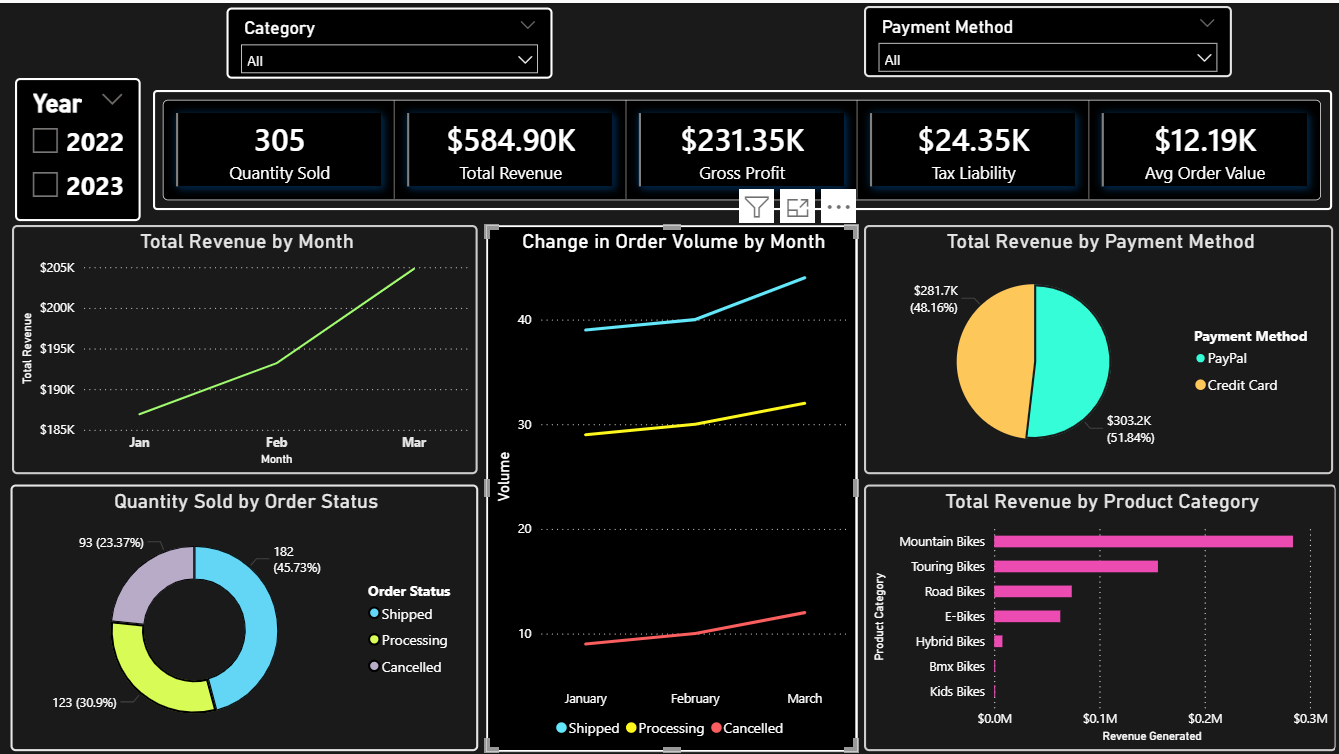
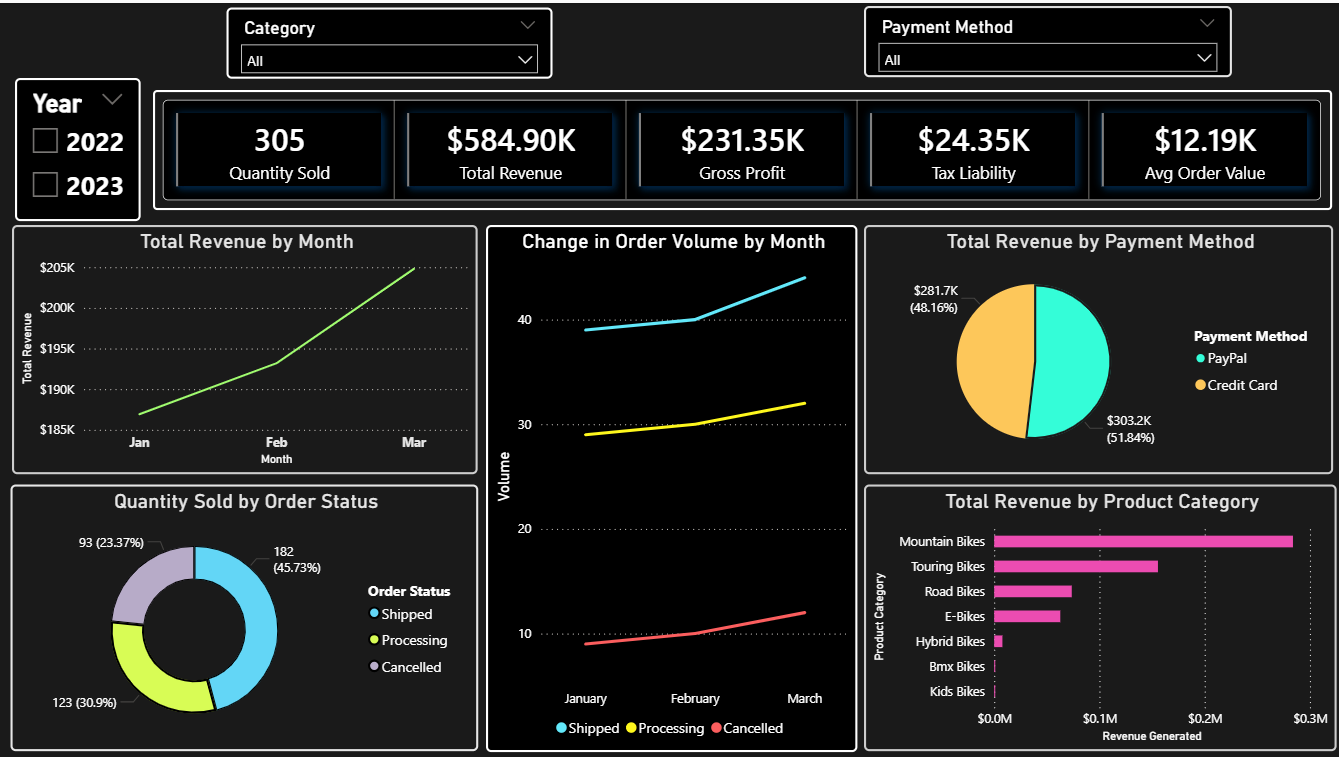
Updated README

diff --git a/README.md b/README.md
@@ -125,30 +125,58 @@ Provide an interactive dashboard allowing executives to filter results by:
 Page 1: Executive Overview
 </h2>
 
+Displays:
+
+    The number of bikes sold,   Total revenue,    Gross profit,    Tax liability,    
+    Total revenue by month, Quantity sold by order status,      Change in order volume, 
+    Total revenue by payment method,  Total revenue by product category.
+
 <p align = "center">
-<img src = "08_Images/Dashboard/Executive_Overview.png" width = "1000" height = "350">
+<img src = "08_Images/Dashboard/Executive_Overview.png" width = "1000" height = "400">
 </p>
 
-<h1 align = "center"> 
+<h2 align = "center"> 
 Page 2: Product Performance
-</h1>
+</h2>
+
+Displays:
+
+    Revenue generated by product category, 
+    Revenue generated by subcategory,
+    Order quantity by category,
+    Profitability by category
 
 <p align = "center">
-<img src = "08_Images/Dashboard/Product_Performance.png" width = "1000" height = "350">
+<img src = "08_Images/Dashboard/Product_Performance.png" width = "1000" height = "400">
 </p>
 
-<h1 align = "center"> 
+<h2 align = "center"> 
 Page 3: Operational Performance
-</h1>
+</h2>
+
+Reports on:
+
+    Quantity of bikes sold by category,
+    Order Value for all three order status,
+    Distribution of order status,
+    Customers' payment preference,
+
 
 <p align = "center">
-<img src = "08_Images/Dashboard/Operational_Performance.png" width = "1000" height = "350">
+<img src = "08_Images/Dashboard/Operational_Performance.png" width = "1000" height = "400">
 </p>
 
-<h1 align = "center"> 
+<h2 align = "center"> 
 Page 4: Tax_Obligation
-</h1>
+</h2>
+
+Reports on:
+
+    Taxable products, Taxable sale, Tax due, Net Revenue,
+    Tax due by moth, Tax due by product category,
+    Tax due as a proportion of revenue generated
 
 <p align = "center">
-<img src = "08_Images/Dashboard/Tax_Obligation.png" width = "1000" height = "350">
+<img src = "08_Images/Dashboard/Tax_Obligation.png" width = "1000" height = "400">
 </p>
+